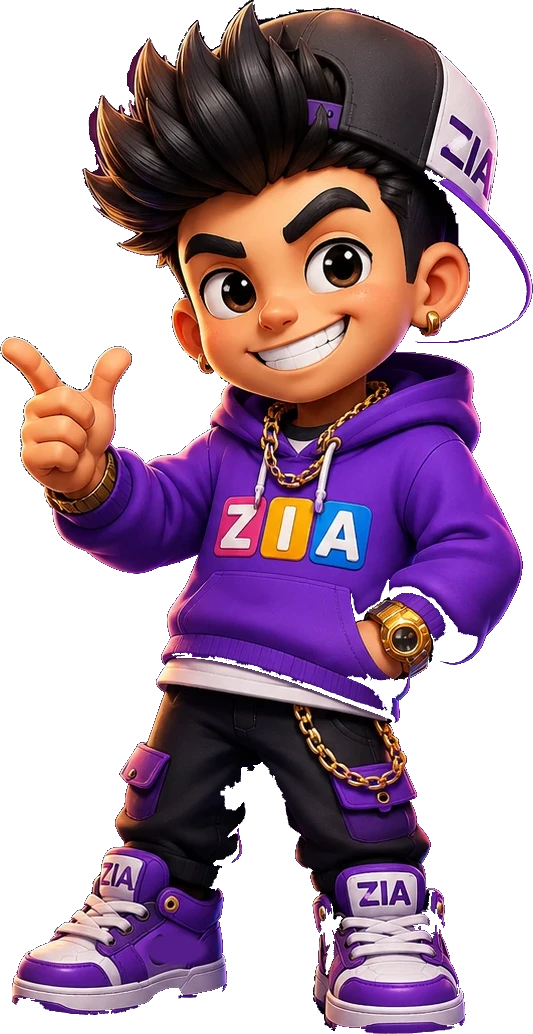
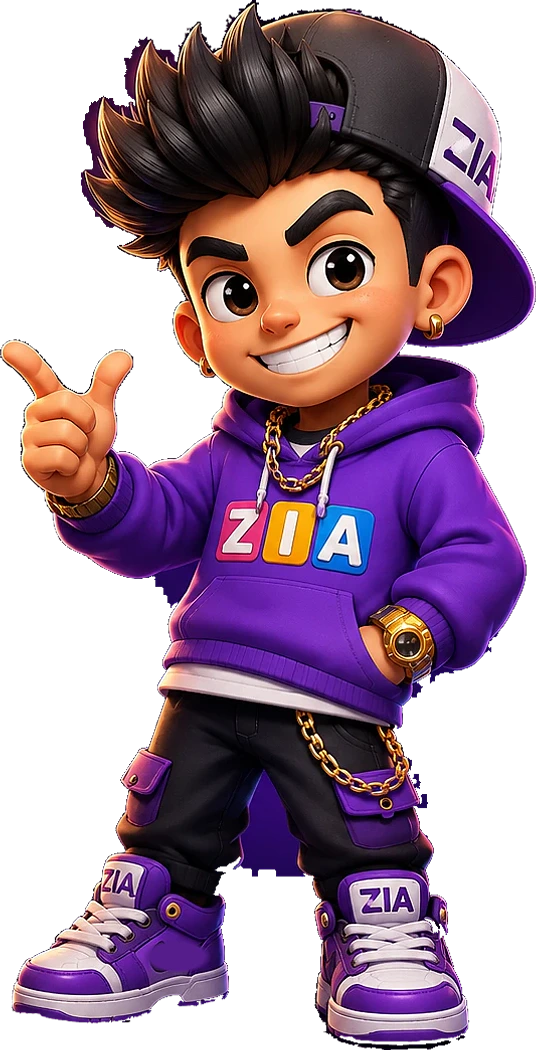
Block Zia web surumu guncellendi (22.11.2026 17:15)

diff --git a/oyun/style.css b/oyun/style.css
@@ -62,13 +62,20 @@ button{font:inherit;color:inherit;border:0;cursor:pointer}
 #zia{position:absolute;left:50%;top:44%;z-index:60;pointer-events:none;display:flex;flex-direction:column;align-items:center;--zc:#A86CFF;
   opacity:0;transform:translate(-50%,-50%) scale(.55);transition:opacity .28s ease,transform .5s cubic-bezier(.2,1.35,.4,1)}
 #zia.show{opacity:1;transform:translate(-50%,-50%) scale(1)}
-#zia.out{opacity:0;transform:translate(-50%,-56%) scale(.9);transition:opacity .3s ease,transform .3s ease}
+#zia.out{opacity:0;transform:translate(-50%,-50%) scale(.82);transition:opacity .32s ease-in,transform .32s cubic-bezier(.5,0,.75,0)}
 #zia::before{content:'';position:absolute;left:50%;top:58%;width:min(300px,72vw);height:min(300px,72vw);transform:translate(-50%,-50%) scale(.6);border-radius:50%;
   background:radial-gradient(closest-side,color-mix(in srgb,var(--zc) 55%,transparent),transparent);background:radial-gradient(closest-side,var(--zc2,rgba(168,108,255,.5)),transparent);
   opacity:0;transition:opacity .4s,transform .6s cubic-bezier(.2,1.2,.4,1)}
 #zia.show::before{opacity:1;transform:translate(-50%,-50%) scale(1);animation:ziaGlow 2.4s ease-in-out infinite}
-#zia img{position:relative;height:min(220px,27vh);width:auto;transform-origin:50% 90%;filter:drop-shadow(0 10px 14px rgba(0,0,0,.45));
-  -webkit-mask-image:linear-gradient(#000 80%,transparent);mask-image:linear-gradient(#000 80%,transparent)}
+#zia img{position:relative;z-index:1;height:min(230px,28vh);width:auto;transform-origin:50% 92%;filter:drop-shadow(0 8px 10px rgba(0,0,0,.4));
+  will-change:transform;backface-visibility:hidden;-webkit-backface-visibility:hidden;image-rendering:auto}
+#zia{will-change:transform,opacity;backface-visibility:hidden}
+/* zemin gölgesi: karakter zıplarken küçülür, yere inince büyür (yere basma hissi) */
+#zia::after{content:'';position:absolute;left:50%;bottom:-6px;width:46%;height:14px;margin-left:-23%;border-radius:50%;
+  background:radial-gradient(closest-side,rgba(0,0,0,.5),rgba(0,0,0,0));opacity:0;transition:opacity .3s}
+#zia.show::after{opacity:1}
+#zia.show.joy::after{animation:ziaShadowHop .5s ease-in-out .55s infinite alternate}
+@keyframes ziaShadowHop{from{transform:scaleX(1);opacity:1}to{transform:scaleX(.7);opacity:.55}}
 #zia .zb{position:relative;z-index:2;order:-1;margin-bottom:8px;max-width:min(260px,72vw);width:max-content;text-align:center;
   background:#fff;color:#2A1840;font:900 16px/1.25 var(--ff);padding:9px 15px;border-radius:18px;box-shadow:0 6px 18px rgba(0,0,0,.32);
   transform:scale(0) translateY(10px);transition:transform .35s cubic-bezier(.2,1.5,.4,1) .18s}

diff --git a/oyun/game.js b/oyun/game.js
@@ -1284,6 +1284,8 @@ function toHold(idx) { const p = S.tray[idx]; S.tray[idx] = S.hold; S.hold = p; 
 // tepkiler: kombo/çok satır → sevinç, rekor/temizlik → havalı, sıkışma → düşünür, oyun bitti → muzip. Sık çıkmaz, dokunmayı engellemez.
 let ziaT = 0, ziaT2 = 0, ziaLast = 0, ziaWait = 0, charUntil = 0, pwfxUntil = 0;
 // poza göre ses: sevinç "woo", havalı "yeah boy", muzip/işaret "motor gazı", düşünen sessiz
+// tüm pozlar önceden yüklenir ve çözülür: ilk çıkışta boş/yarım kare görünmez, animasyon akıcı başlar
+const ZIA_IMG = {}; for (const k of ['joy', 'cool', 'think', 'smirk', 'point']) { const im = new Image(); im.decoding = 'async'; im.src = 'zia/' + k + '.webp'; if (im.decode) im.decode().catch(() => {}); ZIA_IMG[k] = im; }
 const ZIA_SND = { joy: ['zwoo', .85], cool: ['zyeah', .85], smirk: ['zengine', .5], point: ['zengine', .45] };
 function zia(pose, text, ms = 2000, force = false, snd) {
   const el = $('zia'), now = performance.now();
@@ -1298,8 +1300,9 @@ function zia(pose, text, ms = 2000, force = false, snd) {
   clearTimeout(ziaWait);
   ziaWait = setTimeout(() => {
     if (view !== 'game' && view !== 'over') return;
-    el.querySelector('img').src = 'zia/' + pose + '.webp'; el.querySelector('.zb').textContent = text || '';
-    el.className = pose; void el.offsetWidth; el.classList.add('show');
+    const img = el.querySelector('img'), src = ZIA_IMG[pose] ? ZIA_IMG[pose].src : 'zia/' + pose + '.webp'; el.querySelector('.zb').textContent = text || '';
+    if (img.src !== src) img.src = src;
+    el.className = pose; void el.offsetWidth; requestAnimationFrame(() => el.classList.add('show'));
     if (vs) samp(vs[0], vs[1]);
     clearTimeout(ziaT); clearTimeout(ziaT2);
     ziaT = setTimeout(() => { el.classList.add('out'); ziaT2 = setTimeout(() => { el.className = ''; }, 320); }, ms);

diff --git a/oyun/build.js b/oyun/build.js
@@ -1,1 +1,1 @@
-window.BLOKZIA_BUILD = '22.11.2026 17:10';
+window.BLOKZIA_BUILD = '22.11.2026 17:15';
